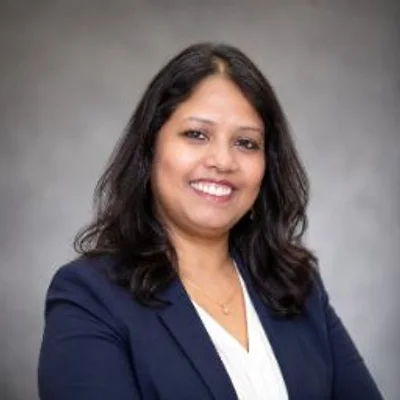
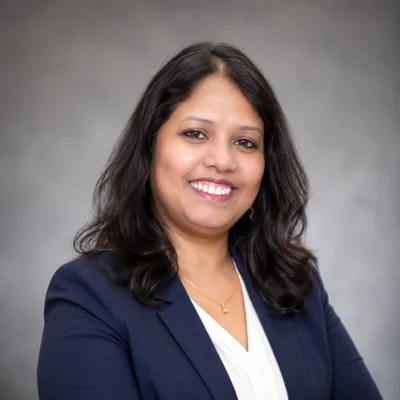
chore(site): Alexey Gvintovkin's new photo on every copy, as the app holds it
Speakers id 172 photo_url is images/speaker-alexey-gvintovkin-v2-sq.webp;
the schedule thumb is rebaked from it. Dipti Agrawal's new pass photo from
the app comes along.

diff --git a/public/conference.html b/public/conference.html
@@ -801,7 +801,7 @@
                     <div class="trk-head">
                         <h3 class="ctr-name">GenAI &amp; Agentic AI</h3>
                         <p class="trk-count">1 panel · Fri 20 Nov</p>
-                        <div class="trk-faces" role="img" aria-label="Speakers include Abhay Sharma, Akhil Gupta, Raveesh Dewan, Mukesh Jain, Kushan Shah, Alexey Gvintovkin and 1 more"><img src="images/sched/abhay-sharma.webp?v=a7ff92a7" width="34" height="34" loading="lazy" decoding="async" alt="" title="Abhay Sharma"><img src="images/sched/akhil-gupta.webp?v=6a66065e" width="34" height="34" loading="lazy" decoding="async" alt="" title="Akhil Gupta"><img src="images/sched/raveesh-dewan.webp?v=9a4d8689" width="34" height="34" loading="lazy" decoding="async" alt="" title="Raveesh Dewan"><img src="images/sched/mukesh-jain.webp?v=ae3a9ca7" width="34" height="34" loading="lazy" decoding="async" alt="" title="Mukesh Jain"><img src="images/sched/kushan-shah.webp?v=ce62553e" width="34" height="34" loading="lazy" decoding="async" alt="" title="Kushan Shah"><img src="images/sched/alexey-gvintovkin.webp?v=9d458623" width="34" height="34" loading="lazy" decoding="async" alt="" title="Alexey Gvintovkin"><span class="trk-more">+1</span></div>
+                        <div class="trk-faces" role="img" aria-label="Speakers include Abhay Sharma, Akhil Gupta, Raveesh Dewan, Mukesh Jain, Kushan Shah, Alexey Gvintovkin and 1 more"><img src="images/sched/abhay-sharma.webp?v=a7ff92a7" width="34" height="34" loading="lazy" decoding="async" alt="" title="Abhay Sharma"><img src="images/sched/akhil-gupta.webp?v=6a66065e" width="34" height="34" loading="lazy" decoding="async" alt="" title="Akhil Gupta"><img src="images/sched/raveesh-dewan.webp?v=9a4d8689" width="34" height="34" loading="lazy" decoding="async" alt="" title="Raveesh Dewan"><img src="images/sched/mukesh-jain.webp?v=ae3a9ca7" width="34" height="34" loading="lazy" decoding="async" alt="" title="Mukesh Jain"><img src="images/sched/kushan-shah.webp?v=ce62553e" width="34" height="34" loading="lazy" decoding="async" alt="" title="Kushan Shah"><img src="images/sched/alexey-gvintovkin.webp?v=e363dd24" width="34" height="34" loading="lazy" decoding="async" alt="" title="Alexey Gvintovkin"><span class="trk-more">+1</span></div>
                     </div>
                     <div class="trk-body">
                         <p class="ctr-desc">What leaders are doing as generative AI moves from pilots to autonomous agents that run parts of the business. <em>For: CIOs, CTOs, AI product leaders and GenAI teams.</em></p>
@@ -1038,7 +1038,7 @@
                             </div>
                             <div id="sch-bhabha-1-1630" class="schedule-item has-people">
                                 <div class="schedule-time">16:30 – 17:30</div>
-                                <div class="schedule-info"><h4>Human × AI: The Partnership Powering the Autonomous Enterprise</h4><p>Panel: Agentic AI.</p><p class="sch-powered"><span>Powered by</span><img width="107" height="48" loading="lazy" decoding="async" src="images/sched/logo-exeni.webp?v=cea98118" alt="EXENI"></p><ul class="sch-people"><li class="sch-person"><img class="sch-photo" width="48" height="48" loading="lazy" decoding="async" src="images/sched/abhay-sharma.webp?v=a7ff92a7" alt=""><div class="sch-who"><img class="sch-logo" width="96" height="40" loading="lazy" decoding="async" src="images/sched/logo-ibm.webp?v=a8939489" alt="" style="--lw:68;--lh:28"><div class="sch-name">Abhay Sharma</div><div class="sch-role">Partner &amp; Practice Leader</div><div class="sch-org">IBM</div></div></li><li class="sch-person"><img class="sch-photo" width="48" height="48" loading="lazy" decoding="async" src="images/sched/akhil-gupta.webp?v=6a66065e" alt=""><div class="sch-who"><img class="sch-logo" width="62" height="62" loading="lazy" decoding="async" src="images/sched/logo-nobroker-in.webp?v=3d717e1d" alt="" style="--lw:40;--lh:40"><div class="sch-name">Akhil Gupta</div><div class="sch-role">Founder</div><div class="sch-org">NoBroker.com</div></div></li><li class="sch-person"><img class="sch-photo" width="48" height="48" loading="lazy" decoding="async" src="images/sched/raveesh-dewan.webp?v=9a4d8689" alt=""><div class="sch-who"><div class="sch-name">Raveesh Dewan</div><div class="sch-role">President &amp; CEO</div><div class="sch-org">Joget Inc.</div></div></li><li class="sch-person"><img class="sch-photo" width="48" height="48" loading="lazy" decoding="async" src="images/sched/mukesh-jain.webp?v=ae3a9ca7" alt=""><div class="sch-who"><img class="sch-logo" width="64" height="58" loading="lazy" decoding="async" src="images/sched/logo-capgemini-com.webp?v=853d6815" alt="" style="--lw:42;--lh:38"><div class="sch-name">Mukesh Jain</div><div class="sch-role">Global EVP &amp; CTO</div><div class="sch-org">Capgemini</div></div></li><li class="sch-person"><img class="sch-photo" width="48" height="48" loading="lazy" decoding="async" src="images/sched/kushan-shah.webp?v=ce62553e" alt=""><div class="sch-who"><div class="sch-name">Kushan Shah</div><div class="sch-role">Chief Technology and Product Officer</div><div class="sch-org">Fynd</div></div></li><li class="sch-person"><img class="sch-photo" width="48" height="48" loading="lazy" decoding="async" src="images/sched/alexey-gvintovkin.webp?v=9d458623" alt=""><div class="sch-who"><img class="sch-logo" width="178" height="80" loading="lazy" decoding="async" src="images/sched/logo-exeni.webp?v=cea98118" alt="" style="--lw:65;--lh:29"><div class="sch-name">Alexey Gvintovkin</div><div class="sch-role">EXENI Founder</div><div class="sch-org">EXENI</div></div></li><li class="sch-person"><img class="sch-photo" width="48" height="48" loading="lazy" decoding="async" src="images/sched/bhupesh-daheria.webp?v=db4ae048" alt=""><div class="sch-who"><img class="sch-logo" width="184" height="68" loading="lazy" decoding="async" src="images/sched/logo-aegis.webp?v=1d8f778a" alt="" style="--lw:73;--lh:27"><div class="sch-name">Bhupesh Daheria <span class="sch-tag">Moderator</span></div><div class="sch-role">CEO, Aegis School of Data Science &amp; AI</div><div class="sch-org">Trustee, Aegis Knowledge Trust</div></div></li></ul></div>
+                                <div class="schedule-info"><h4>Human × AI: The Partnership Powering the Autonomous Enterprise</h4><p>Panel: Agentic AI.</p><p class="sch-powered"><span>Powered by</span><img width="107" height="48" loading="lazy" decoding="async" src="images/sched/logo-exeni.webp?v=cea98118" alt="EXENI"></p><ul class="sch-people"><li class="sch-person"><img class="sch-photo" width="48" height="48" loading="lazy" decoding="async" src="images/sched/abhay-sharma.webp?v=a7ff92a7" alt=""><div class="sch-who"><img class="sch-logo" width="96" height="40" loading="lazy" decoding="async" src="images/sched/logo-ibm.webp?v=a8939489" alt="" style="--lw:68;--lh:28"><div class="sch-name">Abhay Sharma</div><div class="sch-role">Partner &amp; Practice Leader</div><div class="sch-org">IBM</div></div></li><li class="sch-person"><img class="sch-photo" width="48" height="48" loading="lazy" decoding="async" src="images/sched/akhil-gupta.webp?v=6a66065e" alt=""><div class="sch-who"><img class="sch-logo" width="62" height="62" loading="lazy" decoding="async" src="images/sched/logo-nobroker-in.webp?v=3d717e1d" alt="" style="--lw:40;--lh:40"><div class="sch-name">Akhil Gupta</div><div class="sch-role">Founder</div><div class="sch-org">NoBroker.com</div></div></li><li class="sch-person"><img class="sch-photo" width="48" height="48" loading="lazy" decoding="async" src="images/sched/raveesh-dewan.webp?v=9a4d8689" alt=""><div class="sch-who"><div class="sch-name">Raveesh Dewan</div><div class="sch-role">President &amp; CEO</div><div class="sch-org">Joget Inc.</div></div></li><li class="sch-person"><img class="sch-photo" width="48" height="48" loading="lazy" decoding="async" src="images/sched/mukesh-jain.webp?v=ae3a9ca7" alt=""><div class="sch-who"><img class="sch-logo" width="64" height="58" loading="lazy" decoding="async" src="images/sched/logo-capgemini-com.webp?v=853d6815" alt="" style="--lw:42;--lh:38"><div class="sch-name">Mukesh Jain</div><div class="sch-role">Global EVP &amp; CTO</div><div class="sch-org">Capgemini</div></div></li><li class="sch-person"><img class="sch-photo" width="48" height="48" loading="lazy" decoding="async" src="images/sched/kushan-shah.webp?v=ce62553e" alt=""><div class="sch-who"><div class="sch-name">Kushan Shah</div><div class="sch-role">Chief Technology and Product Officer</div><div class="sch-org">Fynd</div></div></li><li class="sch-person"><img class="sch-photo" width="48" height="48" loading="lazy" decoding="async" src="images/sched/alexey-gvintovkin.webp?v=e363dd24" alt=""><div class="sch-who"><img class="sch-logo" width="178" height="80" loading="lazy" decoding="async" src="images/sched/logo-exeni.webp?v=cea98118" alt="" style="--lw:65;--lh:29"><div class="sch-name">Alexey Gvintovkin</div><div class="sch-role">EXENI Founder</div><div class="sch-org">EXENI</div></div></li><li class="sch-person"><img class="sch-photo" width="48" height="48" loading="lazy" decoding="async" src="images/sched/bhupesh-daheria.webp?v=db4ae048" alt=""><div class="sch-who"><img class="sch-logo" width="184" height="68" loading="lazy" decoding="async" src="images/sched/logo-aegis.webp?v=1d8f778a" alt="" style="--lw:73;--lh:27"><div class="sch-name">Bhupesh Daheria <span class="sch-tag">Moderator</span></div><div class="sch-role">CEO, Aegis School of Data Science &amp; AI</div><div class="sch-org">Trustee, Aegis Knowledge Trust</div></div></li></ul></div>
                                 <span class="schedule-badge badge-panel">Panel</span>
                             </div>
                             <div id="sch-bhabha-1-1730" class="schedule-item has-people">
@@ -1517,7 +1517,7 @@
                             </div>
                             <div id="sch-kalam-2-1050" class="schedule-item has-people">
                                 <div class="schedule-time">10:50 – 11:10</div>
-                                <div class="schedule-info"><h4>Innovation Talk: Tudip Technologies</h4><p>&ldquo;From Data to Decisions: Democratising Enterprise Intelligence Through Conversational AI&rdquo;.</p><ul class="sch-people"><li class="sch-person"><img class="sch-photo" width="48" height="48" loading="lazy" decoding="async" src="images/sched/dipti-agrawal.webp?v=d685c912" alt=""><div class="sch-who"><div class="sch-name">Dipti Agrawal</div><div class="sch-role">Co-Founder and CEO</div><div class="sch-org">Tudip Technologies</div></div></li></ul></div>
+                                <div class="schedule-info"><h4>Innovation Talk: Tudip Technologies</h4><p>&ldquo;From Data to Decisions: Democratising Enterprise Intelligence Through Conversational AI&rdquo;.</p><ul class="sch-people"><li class="sch-person"><img class="sch-photo" width="48" height="48" loading="lazy" decoding="async" src="images/sched/dipti-agrawal.webp?v=c78a3f11" alt=""><div class="sch-who"><div class="sch-name">Dipti Agrawal</div><div class="sch-role">Co-Founder and CEO</div><div class="sch-org">Tudip Technologies</div></div></li></ul></div>
                                 <span class="schedule-badge badge-workshop">Talk</span>
                             </div>
                             <div id="sch-kalam-2-1110" class="schedule-item">
@@ -1774,7 +1774,7 @@
                             </div>
                             <div class="schedule-item has-people">
                                 <div class="schedule-time">16:30 – 17:30</div>
-                                <div class="schedule-info"><h4>Human × AI: The Partnership Powering the Autonomous Enterprise</h4><p><span class="hall-label hl-bhabha">Homi J. Bhabha Hall</span>Panel: Agentic AI.</p><p class="sch-powered"><span>Powered by</span><img width="107" height="48" loading="lazy" decoding="async" src="images/sched/logo-exeni.webp?v=cea98118" alt="EXENI"></p><ul class="sch-people"><li class="sch-person"><img class="sch-photo" width="48" height="48" loading="lazy" decoding="async" src="images/sched/abhay-sharma.webp?v=a7ff92a7" alt=""><div class="sch-who"><img class="sch-logo" width="96" height="40" loading="lazy" decoding="async" src="images/sched/logo-ibm.webp?v=a8939489" alt="" style="--lw:68;--lh:28"><div class="sch-name">Abhay Sharma</div><div class="sch-role">Partner &amp; Practice Leader</div><div class="sch-org">IBM</div></div></li><li class="sch-person"><img class="sch-photo" width="48" height="48" loading="lazy" decoding="async" src="images/sched/akhil-gupta.webp?v=6a66065e" alt=""><div class="sch-who"><img class="sch-logo" width="62" height="62" loading="lazy" decoding="async" src="images/sched/logo-nobroker-in.webp?v=3d717e1d" alt="" style="--lw:40;--lh:40"><div class="sch-name">Akhil Gupta</div><div class="sch-role">Founder</div><div class="sch-org">NoBroker.com</div></div></li><li class="sch-person"><img class="sch-photo" width="48" height="48" loading="lazy" decoding="async" src="images/sched/raveesh-dewan.webp?v=9a4d8689" alt=""><div class="sch-who"><div class="sch-name">Raveesh Dewan</div><div class="sch-role">President &amp; CEO</div><div class="sch-org">Joget Inc.</div></div></li><li class="sch-person"><img class="sch-photo" width="48" height="48" loading="lazy" decoding="async" src="images/sched/mukesh-jain.webp?v=ae3a9ca7" alt=""><div class="sch-who"><img class="sch-logo" width="64" height="58" loading="lazy" decoding="async" src="images/sched/logo-capgemini-com.webp?v=853d6815" alt="" style="--lw:42;--lh:38"><div class="sch-name">Mukesh Jain</div><div class="sch-role">Global EVP &amp; CTO</div><div class="sch-org">Capgemini</div></div></li><li class="sch-person"><img class="sch-photo" width="48" height="48" loading="lazy" decoding="async" src="images/sched/kushan-shah.webp?v=ce62553e" alt=""><div class="sch-who"><div class="sch-name">Kushan Shah</div><div class="sch-role">Chief Technology and Product Officer</div><div class="sch-org">Fynd</div></div></li><li class="sch-person"><img class="sch-photo" width="48" height="48" loading="lazy" decoding="async" src="images/sched/alexey-gvintovkin.webp?v=9d458623" alt=""><div class="sch-who"><img class="sch-logo" width="178" height="80" loading="lazy" decoding="async" src="images/sched/logo-exeni.webp?v=cea98118" alt="" style="--lw:65;--lh:29"><div class="sch-name">Alexey Gvintovkin</div><div class="sch-role">EXENI Founder</div><div class="sch-org">EXENI</div></div></li><li class="sch-person"><img class="sch-photo" width="48" height="48" loading="lazy" decoding="async" src="images/sched/bhupesh-daheria.webp?v=db4ae048" alt=""><div class="sch-who"><img class="sch-logo" width="184" height="68" loading="lazy" decoding="async" src="images/sched/logo-aegis.webp?v=1d8f778a" alt="" style="--lw:73;--lh:27"><div class="sch-name">Bhupesh Daheria <span class="sch-tag">Moderator</span></div><div class="sch-role">CEO, Aegis School of Data Science &amp; AI</div><div class="sch-org">Trustee, Aegis Knowledge Trust</div></div></li></ul></div>
+                                <div class="schedule-info"><h4>Human × AI: The Partnership Powering the Autonomous Enterprise</h4><p><span class="hall-label hl-bhabha">Homi J. Bhabha Hall</span>Panel: Agentic AI.</p><p class="sch-powered"><span>Powered by</span><img width="107" height="48" loading="lazy" decoding="async" src="images/sched/logo-exeni.webp?v=cea98118" alt="EXENI"></p><ul class="sch-people"><li class="sch-person"><img class="sch-photo" width="48" height="48" loading="lazy" decoding="async" src="images/sched/abhay-sharma.webp?v=a7ff92a7" alt=""><div class="sch-who"><img class="sch-logo" width="96" height="40" loading="lazy" decoding="async" src="images/sched/logo-ibm.webp?v=a8939489" alt="" style="--lw:68;--lh:28"><div class="sch-name">Abhay Sharma</div><div class="sch-role">Partner &amp; Practice Leader</div><div class="sch-org">IBM</div></div></li><li class="sch-person"><img class="sch-photo" width="48" height="48" loading="lazy" decoding="async" src="images/sched/akhil-gupta.webp?v=6a66065e" alt=""><div class="sch-who"><img class="sch-logo" width="62" height="62" loading="lazy" decoding="async" src="images/sched/logo-nobroker-in.webp?v=3d717e1d" alt="" style="--lw:40;--lh:40"><div class="sch-name">Akhil Gupta</div><div class="sch-role">Founder</div><div class="sch-org">NoBroker.com</div></div></li><li class="sch-person"><img class="sch-photo" width="48" height="48" loading="lazy" decoding="async" src="images/sched/raveesh-dewan.webp?v=9a4d8689" alt=""><div class="sch-who"><div class="sch-name">Raveesh Dewan</div><div class="sch-role">President &amp; CEO</div><div class="sch-org">Joget Inc.</div></div></li><li class="sch-person"><img class="sch-photo" width="48" height="48" loading="lazy" decoding="async" src="images/sched/mukesh-jain.webp?v=ae3a9ca7" alt=""><div class="sch-who"><img class="sch-logo" width="64" height="58" loading="lazy" decoding="async" src="images/sched/logo-capgemini-com.webp?v=853d6815" alt="" style="--lw:42;--lh:38"><div class="sch-name">Mukesh Jain</div><div class="sch-role">Global EVP &amp; CTO</div><div class="sch-org">Capgemini</div></div></li><li class="sch-person"><img class="sch-photo" width="48" height="48" loading="lazy" decoding="async" src="images/sched/kushan-shah.webp?v=ce62553e" alt=""><div class="sch-who"><div class="sch-name">Kushan Shah</div><div class="sch-role">Chief Technology and Product Officer</div><div class="sch-org">Fynd</div></div></li><li class="sch-person"><img class="sch-photo" width="48" height="48" loading="lazy" decoding="async" src="images/sched/alexey-gvintovkin.webp?v=e363dd24" alt=""><div class="sch-who"><img class="sch-logo" width="178" height="80" loading="lazy" decoding="async" src="images/sched/logo-exeni.webp?v=cea98118" alt="" style="--lw:65;--lh:29"><div class="sch-name">Alexey Gvintovkin</div><div class="sch-role">EXENI Founder</div><div class="sch-org">EXENI</div></div></li><li class="sch-person"><img class="sch-photo" width="48" height="48" loading="lazy" decoding="async" src="images/sched/bhupesh-daheria.webp?v=db4ae048" alt=""><div class="sch-who"><img class="sch-logo" width="184" height="68" loading="lazy" decoding="async" src="images/sched/logo-aegis.webp?v=1d8f778a" alt="" style="--lw:73;--lh:27"><div class="sch-name">Bhupesh Daheria <span class="sch-tag">Moderator</span></div><div class="sch-role">CEO, Aegis School of Data Science &amp; AI</div><div class="sch-org">Trustee, Aegis Knowledge Trust</div></div></li></ul></div>
                                 <span class="schedule-badge badge-panel">Panel</span>
                             </div>
                             <div class="schedule-item has-people">
@@ -2717,7 +2717,7 @@
                     <div class="speaker-org">Technocracy Private Limited</div>
                 </div>
                 <div class="speaker-card reveal reveal-delay-1">
-                    <div class="speaker-avatar"><img width="400" height="400" loading="lazy" decoding="async" src="images/speaker-alexey-gvintovkin-sq.webp" alt="Alexey Gvintovkin, EXENI Founder, EXENI"></div>
+                    <div class="speaker-avatar"><img width="480" height="480" loading="lazy" decoding="async" src="images/speaker-alexey-gvintovkin-v2-sq.webp" alt="Alexey Gvintovkin, EXENI Founder, EXENI"></div>
                     <h4>Alexey Gvintovkin</h4>
                     <div class="speaker-role">EXENI Founder</div>
                     <div class="speaker-org">EXENI</div>

diff --git a/public/index.html b/public/index.html
@@ -193,7 +193,7 @@
         { "@type": "Person", "name": "Shreenivas Chetlapalli", "jobTitle": "VP", "worksFor": { "@type": "Organization", "name": "Jade Global" }, "image": "https://bharataiinnovation.com/images/speakers/shreenivas-chetlapalli.webp" },
         { "@type": "Person", "name": "Meghavi Shah", "jobTitle": "Head Alliances", "worksFor": { "@type": "Organization", "name": "Assessfy" }, "image": "https://bharataiinnovation.com/images/speakers/meghavi-shah.webp" },
         { "@type": "Person", "name": "Rajib Lochan Mahalik", "jobTitle": "Managing Director", "worksFor": { "@type": "Organization", "name": "Technocracy Private Limited" }, "image": "https://bharataiinnovation.com/images/speakers/rajib-lochan-mahalik.webp" },
-        { "@type": "Person", "name": "Alexey Gvintovkin", "jobTitle": "EXENI Founder", "worksFor": { "@type": "Organization", "name": "EXENI" }, "image": "https://bharataiinnovation.com/images/speaker-alexey-gvintovkin-sq.webp" }
+        { "@type": "Person", "name": "Alexey Gvintovkin", "jobTitle": "EXENI Founder", "worksFor": { "@type": "Organization", "name": "EXENI" }, "image": "https://bharataiinnovation.com/images/speaker-alexey-gvintovkin-v2-sq.webp" }
       ],
       "keywords": "AI conference India, GenAI summit, artificial intelligence exhibition, machine learning conference, LLM conference, AI startups India, enterprise AI, Bharat AI",
       "url": "https://bharataiinnovation.com"
@@ -1974,7 +1974,7 @@
 
                     <!-- Alexey Gvintovkin -->
                     <div class="speaker-card reveal reveal-delay-1" style="text-align:center;align-items:center;">
-                        <img width="400" height="400" loading="lazy" decoding="async" src="images/speaker-alexey-gvintovkin-sq.webp" alt="Alexey Gvintovkin, EXENI Founder, EXENI" class="speaker-photo" style="aspect-ratio:1;border-radius:50%;width:160px;height:160px;margin:0 auto;">
+                        <img width="480" height="480" loading="lazy" decoding="async" src="images/speaker-alexey-gvintovkin-v2-sq.webp" alt="Alexey Gvintovkin, EXENI Founder, EXENI" class="speaker-photo" style="aspect-ratio:1;border-radius:50%;width:160px;height:160px;margin:0 auto;">
                         <h4>Alexey Gvintovkin</h4>
                         <p style="font-size:0.82rem;color:var(--saffron);font-weight:600;margin:0;">EXENI Founder</p>
                         <p class="spk-org" style="font-size:0.78rem;"><img width="640" height="288" class="spk-logo" src="images/org-logos/exeni.webp" alt="" loading="lazy">EXENI</p>
